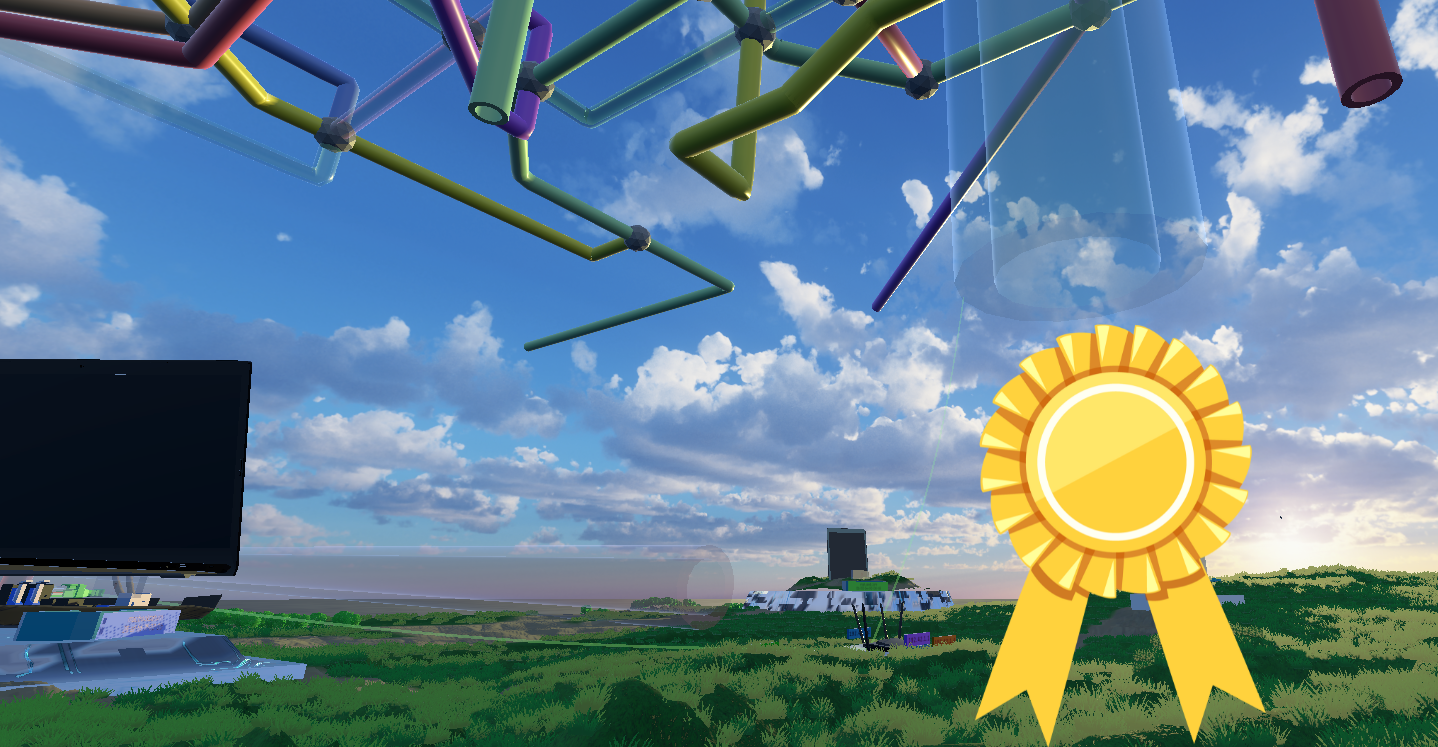
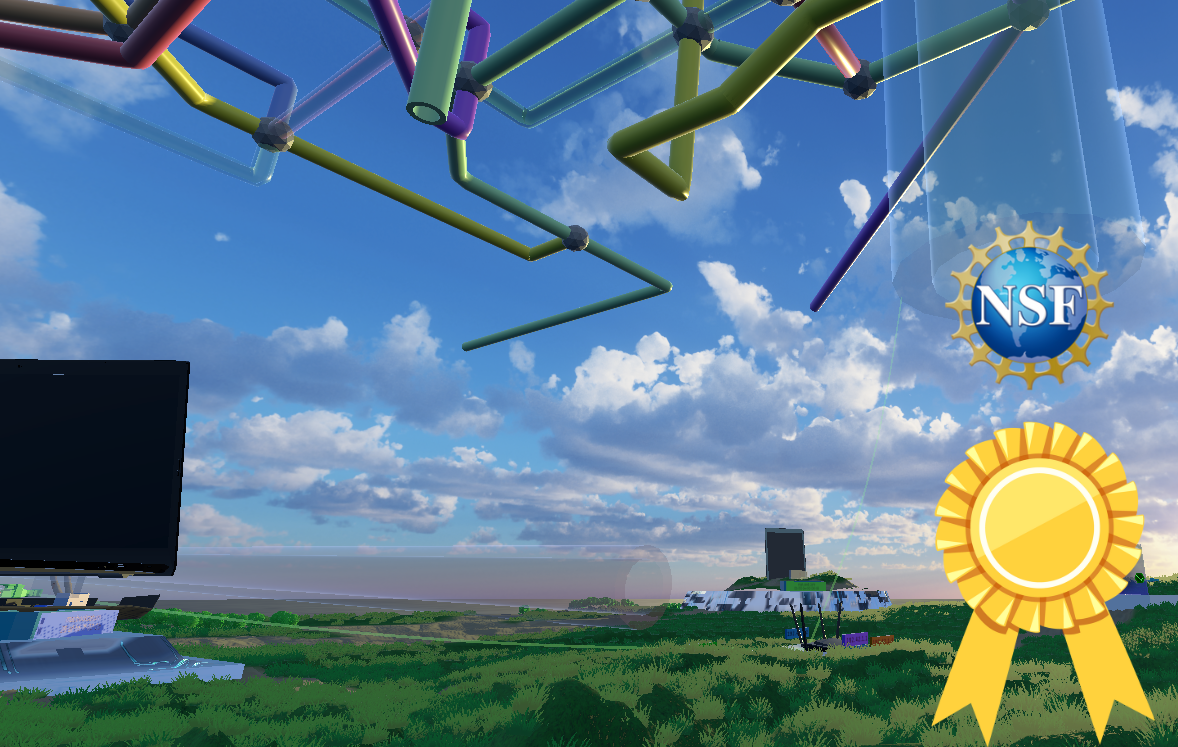
Added EAGER and STEMXR content

diff --git a/StemXR.html b/StemXR.html
@@ -102,40 +102,59 @@
         <hr class="featurette-divider">
         <div class="row featurette">
             <div class="col">
+              <br>
               <div class="col justify-content-center">
-                <img src="images/placeholder.svg" class="rounded" alt="iSleeve Poster" height="auto" width="100%">
+                <img src="images/stemxr/poster.jpg" class="rounded" alt="iSleeve Poster" height="auto" width="100%">
               </div>
               <br>
-                <h2 class="featurette-heading fw-normal lh-1">EAGER</h2>
+                <h2 class="featurette-heading fw-normal lh-1">STEMXR: Research Project for the SPIRE-EIT REU</h2>
                 <h3 class="featurette-heading fw-normal lh-1">National Science Foundation Award #2244586</h3>
                 <p class="lead">This project is a current work in progress, and is being made with using a combination of Unity, Blender, and OpenXR.</p>
                 <p class="lead">I worked on this project as a Graduate Mentor at Iowa State University, in collaboration with four of my teammates on the <a href = "eager.html"> EAGER project </a>. We worked with three REU students in collaboration with the students and teachers of Storm Lake, Iowa, to build an XR Game to engage students with Circuitry concepts. </p>
                 <p class="lead"> Storm Lake is a rural meatpacking community in Iowa, where the majority of residents are families of immigrants. The culture in this small town is very tight-knit, with some students expressing reservations regarding leaving the town to pursue career opportunities or attend secondary education. Most students prefer to live close by to their families, with many students pursuing careers in education or nursing through the nearby community college.</p>
                 <div class="row">
                   <div class="col">
-                    <img src="images/placeholder.svg" class="rounded" alt="iSleeve Poster" height="auto" width="100%">
+                    <img src="images/stemxr/GameSS.png" class="rounded" alt="iSleeve Poster" height="auto" width="100%">
                   </div>
                   <div class="col">
-                    <img src="images/placeholder.svg" class="rounded" alt="iSleeve Poster" height="auto" width="100%">
+                    <img src="images/stemxr/Screenshot 2025-03-15 134455.png" class="rounded" alt="iSleeve Poster" height="auto" width="100%">
                    
                   
                   </div>
                   <div class="col">
-                    <img src="images/placeholder.svg" class="rounded" alt="iSleeve Poster" height="auto" width="100%">
-                    </div>
+                    <img src="images/stemxr/Screenshot 2025-03-15 134536.png" class="rounded" alt="iSleeve Poster" height="auto" width="100%">
+                  </div>
                     
                 </div>
               </div>
-                <p class="lead">Throughout our time working with the students, we played a role in teaching the studets programming skills in Unity, using OpenXR, Blender and Meta Quest tools (I was an instructor for the Blender and OpenXR classes that were part of the REU program) and teaching the students how to conduct qualitative research, analyze data, write an academic paper, present findings to faculty and design a poster.</p>
+                <p class="lead">Throughout our time working with the students, we played a role in teaching the studets programming skills in Unity, using OpenXR, Blender and Meta Quest tools (I was an instructor for the Blender and OpenXR classes that were part of the REU program) and teaching the students how to conduct qualitative research, analyze data, write an academic paper, present findings to faculty and design a poster. We are continuing work on this project during this year (2024 - 2025) and I will be using this project for my Creative Component project.</p>
                  <!-- <div class="col"> -->
-                  <img src="images/placeholder.svg" class="rounded" alt="iSleeve Poster" height="auto" width="100%">
+                  <!-- <img src="images/placeholder.svg" class="rounded" alt="iSleeve Poster" height="auto" width="100%"> -->
                 <!-- </div> -->
-                <p class="lead">In order to create this environment, we had to 3D Model many different systems and materials. I was responsible for creating custom 3D Modeled assets that spoke the same visual language as the assets we had selected for the foliage in and around the environmement. I used Blender to 3D Model platforms, ethernet cords, etc. I collaborated with Hila Sabouni and Mustafa Kilinc who are trained in 3D Modeling processes in Architecture Design. Although the scene's primary functionality was mapped as a simple desktop game using keyboard input, I also used OpenXR to add VR functionality in this environment.</p> 
                 <p class="lead"> My primary role was in supporting the students as a developer for the XR environment they planned to develop. We focused on adding elements that we found would engage students in basic circuitry, based on co-design sessions the students had conducted previously.</p>
+
+                <div class="row">
+                  <div class="col">
+                    <img src="images/stemxr/belnder.png" class="rounded" alt="iSleeve Poster" height="auto" width="100%">
+                  </div>
+                  <div class="col">
+                    <img src="images/stemxr/img_4882-1536x1152.jpg" class="rounded" alt="iSleeve Poster" height="auto" width="100%">
+                   
+                  
+                  </div>
+                  <div class="col">
+                    <img src="images/stemxr/img_4916-1536x1152.jpg" class="rounded" alt="iSleeve Poster" height="auto" width="100%">
+                    
+                </div>
+
+                <p class="lead">I helped teach a Blender class and a VR class for the students' final projects. I worked with my colleagues Mustafa Kilinc and Jorge Yass to assist the students with the programming in the environment. I played a role in helping the students set up and develop the VR environment, and then I played a role in ensuring that the students had all the functionality they needed. I also assisted other groups as well, to ensure that their code was functional. The students also went on field trips to understand their stakeholders (rural students), one of which was a class that I set up curriculum for.</p> 
                 
-                <p class="lead"> For more information about the REU, our students, and to read about our students experiences .</p>
+                <p class="lead"> For more information about the REU, our students, and to read about our students experiences, please visit the official REU webpage.</p>
               
-               
+                <div class="col">
+                  <img src="images/NSF_250x250.png" class="rounded" alt="iSleeve Poster" height="auto" width="10%">
+                  <p class="lead"> National Science Foundation Award #2244586</p>
+                </div>
                 <!-- <div class="col"> -->
                 <!-- </div> -->
                 <!-- <div class="col"> -->
@@ -148,7 +167,7 @@
 </main>
 <footer class="text-muted py-5">
   <div class="container">
-    <p class="mb-1">Made using &copy; Bootstrap by Anjali Gali, 2022</p>
+    <p class="mb-1">Made using &copy; Bootstrap by Anjali Gali, 2024</p>
     <p class="mb-1">To make this website, I referenced the examples provided by &copy; Bootstrap, created by Mark Otto, Jacob Thornton, and Bootstrap contributors.</p>
   </div>
 </footer>

diff --git a/eager.html b/eager.html
@@ -190,7 +190,10 @@
                   <img src="images/eager/3-Anjali-Gali_emblem.png" class="rounded" alt="iSleeve Poster" height="auto" width="100%">
                   </div>
               
-               
+                  <div class="col">
+                    <img src="images/NSF_250x250.png" class="rounded" alt="iSleeve Poster" height="auto" width="10%">
+                    <p class="lead"> National Science Foundation Award #2335751</p>
+                  </div>
                 <!-- <div class="col"> -->
                 <!-- </div> -->
                 <!-- <div class="col"> -->
@@ -203,7 +206,7 @@
 </main>
 <footer class="text-muted py-5">
   <div class="container">
-    <p class="mb-1">Made using &copy; Bootstrap by Anjali Gali, 2022</p>
+    <p class="mb-1">Made using &copy; Bootstrap by Anjali Gali, 2024</p>
     <p class="mb-1">To make this website, I referenced the examples provided by &copy; Bootstrap, created by Mark Otto, Jacob Thornton, and Bootstrap contributors.</p>
   </div>
 </footer>
